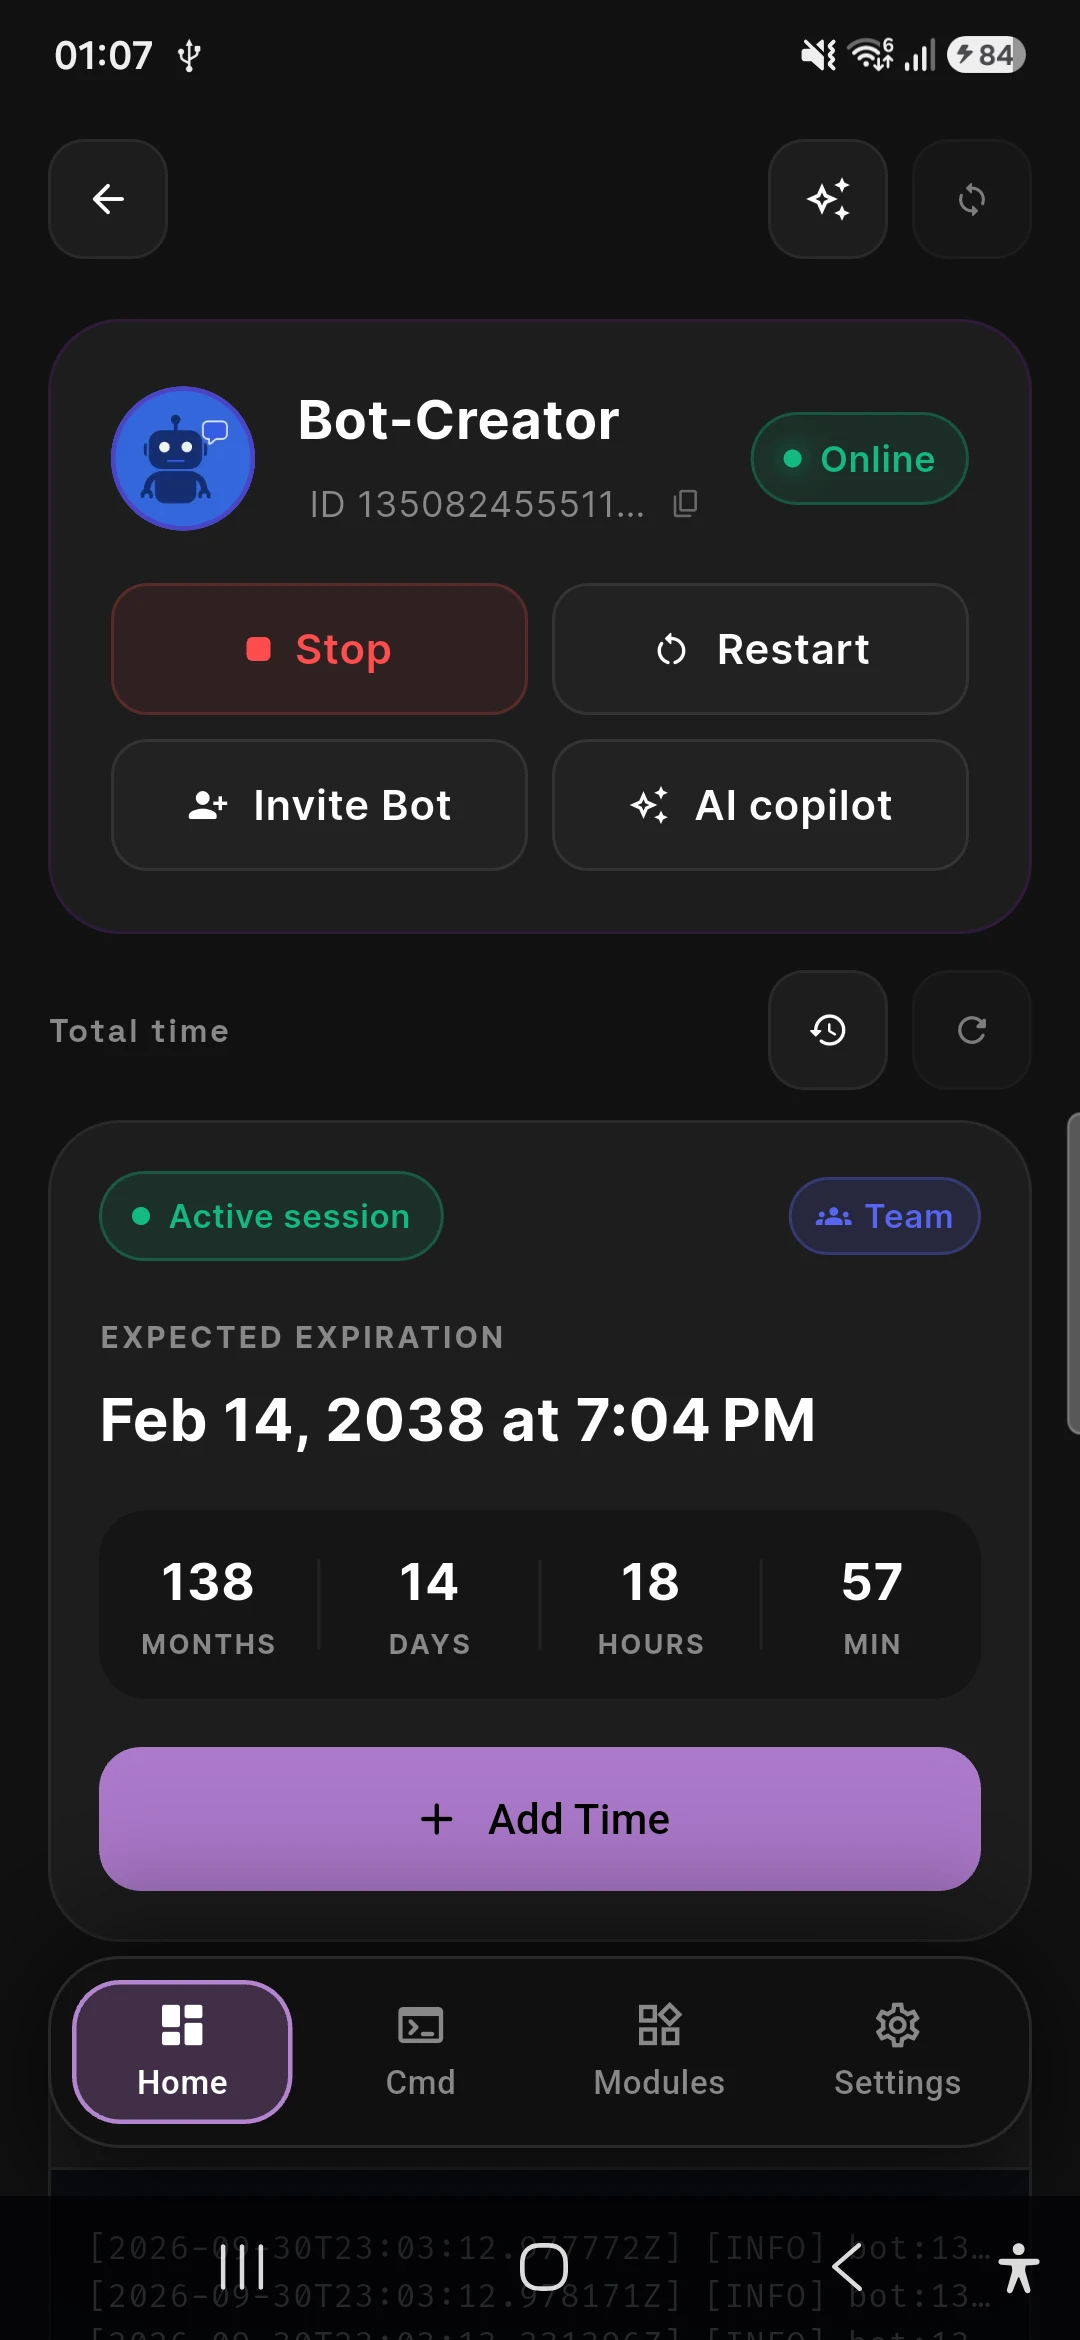
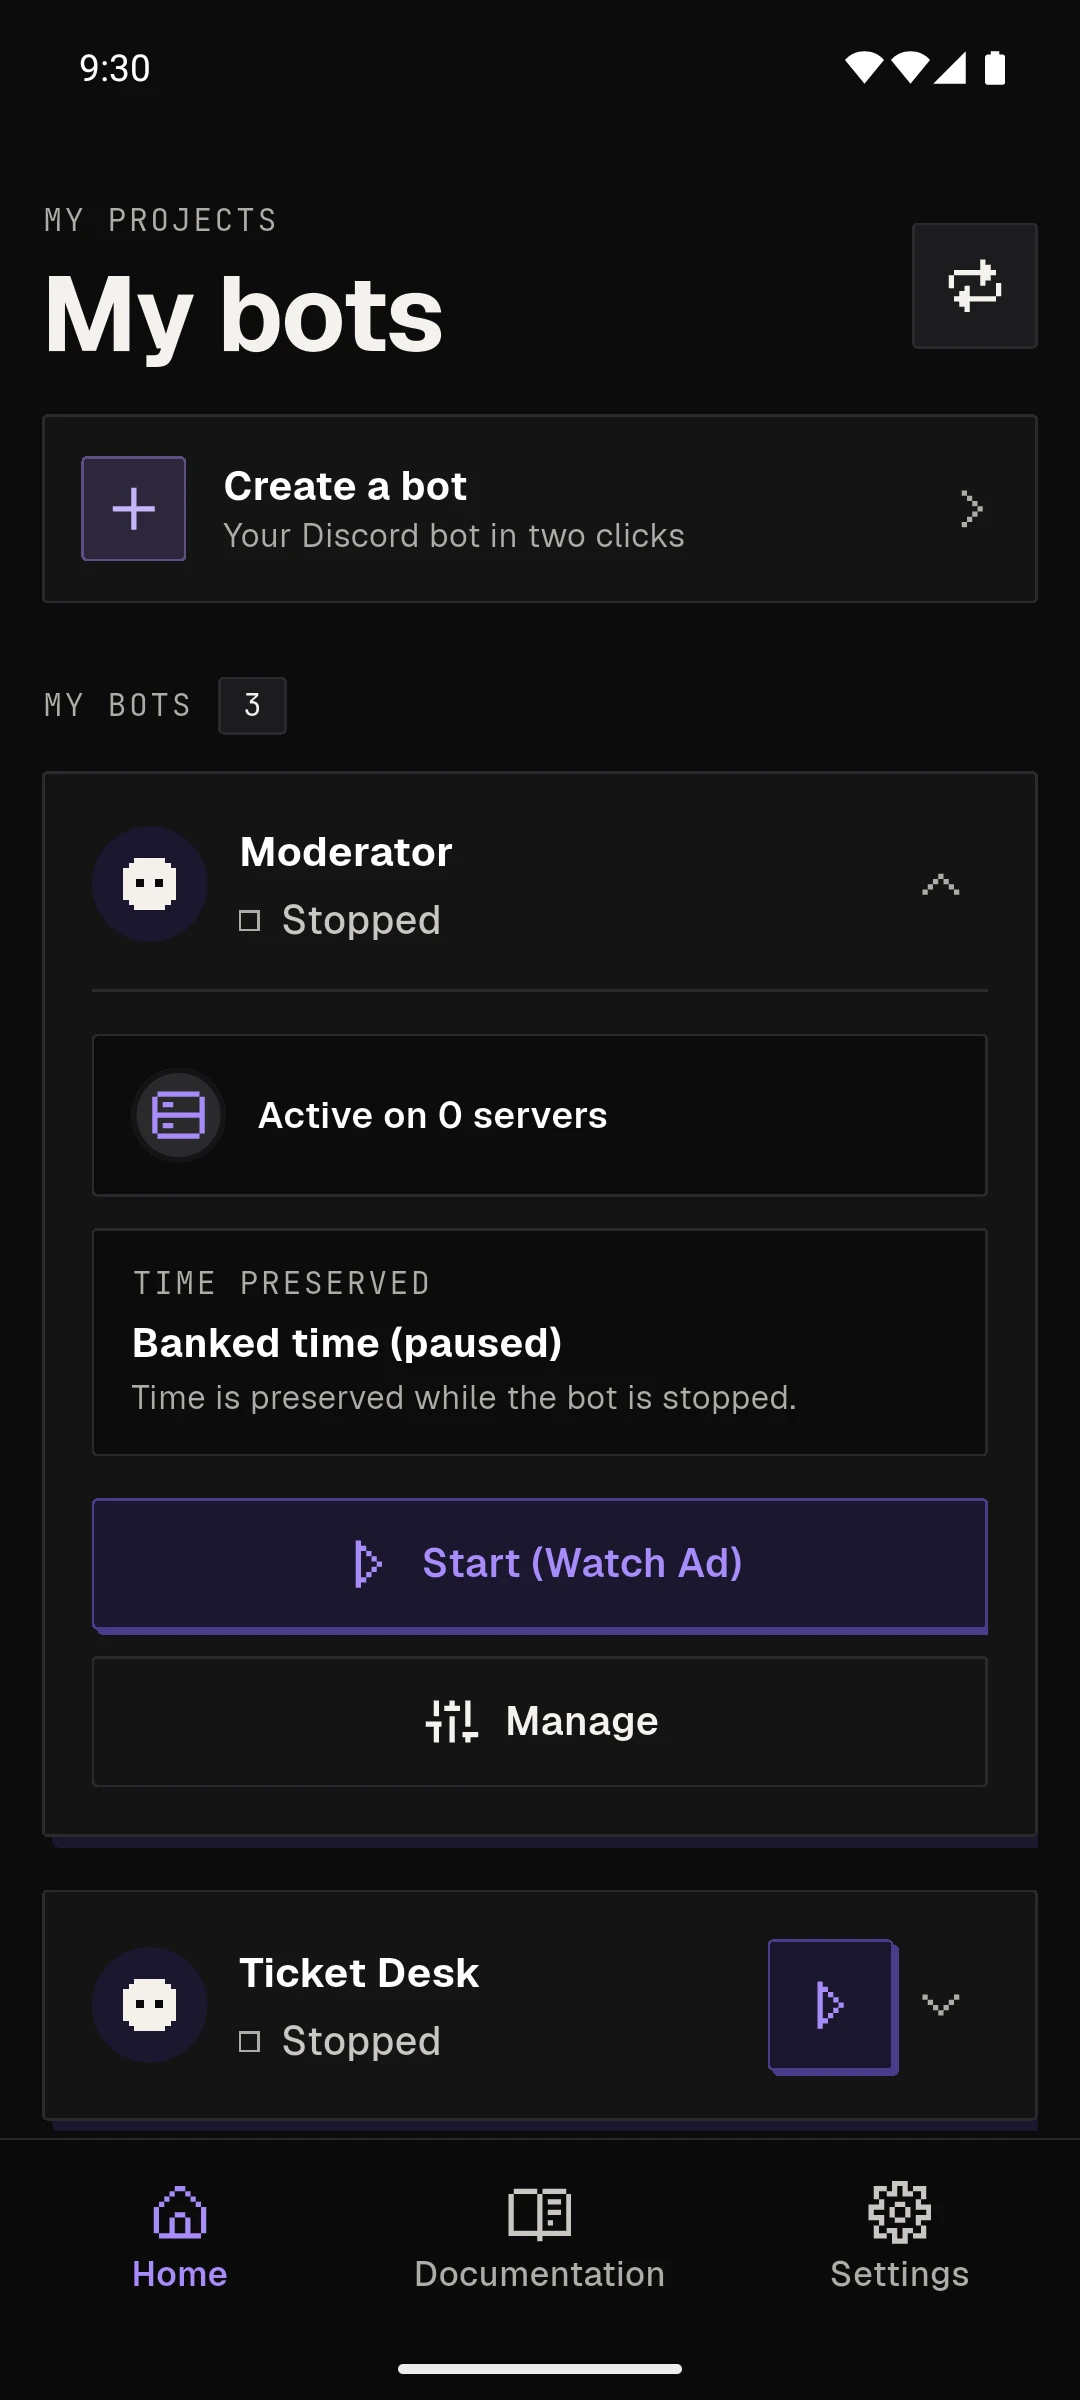
feat(vitrine): captures de la vraie app redessinée (émulateur Android) pour l'accueil et le téléchargement

diff --git a/fr/download.md b/fr/download.md
@@ -101,13 +101,13 @@ permalink: /fr/download/
         <p class="text-xs font-bold text-primary uppercase tracking-widest">App mobile et ordinateur</p>
         <h2 class="font-display text-2xl font-bold text-on-surface">Créez et hébergez depuis un seul espace de travail</h2>
         <p class="text-on-surface-variant text-sm leading-relaxed">Concevez vos commandes, gérez vos variables et surveillez vos bots depuis l'app : le point de départ recommandé pour la plupart des équipes.</p>
-        {% include responsive_screenshot.html screen_id="home" alt="Espace de travail Bot Creator sur Android avec un bot Discord en ligne" class="w-full max-w-[280px] mx-auto drop-" %}
+        {% include responsive_screenshot.html screen_id="home" alt="Espace de travail Bot Creator sur Android avec la liste de vos bots Discord" class="w-full max-w-[280px] mx-auto drop-" %}
       </div>
       <div class="rounded-lg bg-surface-container-low border border-outline-variant p-6 flex flex-col gap-4">
         <p class="text-xs font-bold text-primary uppercase tracking-widest">Déployer et passer à l'échelle</p>
         <h2 class="font-display text-2xl font-bold text-on-surface">Passez de l'hébergement dans l'app aux runners auto-hébergés</h2>
         <p class="text-on-surface-variant text-sm leading-relaxed">Commencez avec l'hébergement depuis l'app, puis passez au runner Docker quand vous avez besoin d'une disponibilité côté serveur.</p>
-        {% include responsive_screenshot.html screen_id="hosting" alt="Commandes d'hébergement de Bot Creator sur Android pour un bot Discord en ligne" class="w-full max-w-[280px] mx-auto drop-" %}
+        {% include responsive_screenshot.html screen_id="hosting" alt="Carte de bot Bot Creator sur Android avec les commandes de démarrage et de gestion" class="w-full max-w-[280px] mx-auto drop-" %}
       </div>
     </section>
 

diff --git a/download.md b/download.md
@@ -100,13 +100,13 @@ permalink: /download/
         <p class="text-xs font-bold text-primary uppercase tracking-widest">Mobile & desktop app</p>
         <h2 class="font-display text-2xl font-bold text-on-surface">Create and host from one workspace</h2>
         <p class="text-on-surface-variant text-sm leading-relaxed">Design commands, manage variables, and monitor bots from the app — the recommended starting point for most teams.</p>
-        {% include responsive_screenshot.html screen_id="home" alt="Bot Creator Android workspace with an online Discord bot" class="w-full max-w-[280px] mx-auto drop-" %}
+        {% include responsive_screenshot.html screen_id="home" alt="Bot Creator Android workspace listing your Discord bots" class="w-full max-w-[280px] mx-auto drop-" %}
       </div>
       <div class="rounded-lg bg-surface-container-low border border-outline-variant p-6 flex flex-col gap-4">
         <p class="text-xs font-bold text-primary uppercase tracking-widest">Deploy & scale</p>
         <h2 class="font-display text-2xl font-bold text-on-surface">Grow from app hosting to self-hosted runners</h2>
         <p class="text-on-surface-variant text-sm leading-relaxed">Start with managed app hosting, then move to the Docker runner when you need server-side uptime.</p>
-        {% include responsive_screenshot.html screen_id="hosting" alt="Bot Creator Android hosting controls for an online Discord bot" class="w-full max-w-[280px] mx-auto drop-" %}
+        {% include responsive_screenshot.html screen_id="hosting" alt="Bot Creator Android bot card with the start and manage controls" class="w-full max-w-[280px] mx-auto drop-" %}
       </div>
     </section>
 
